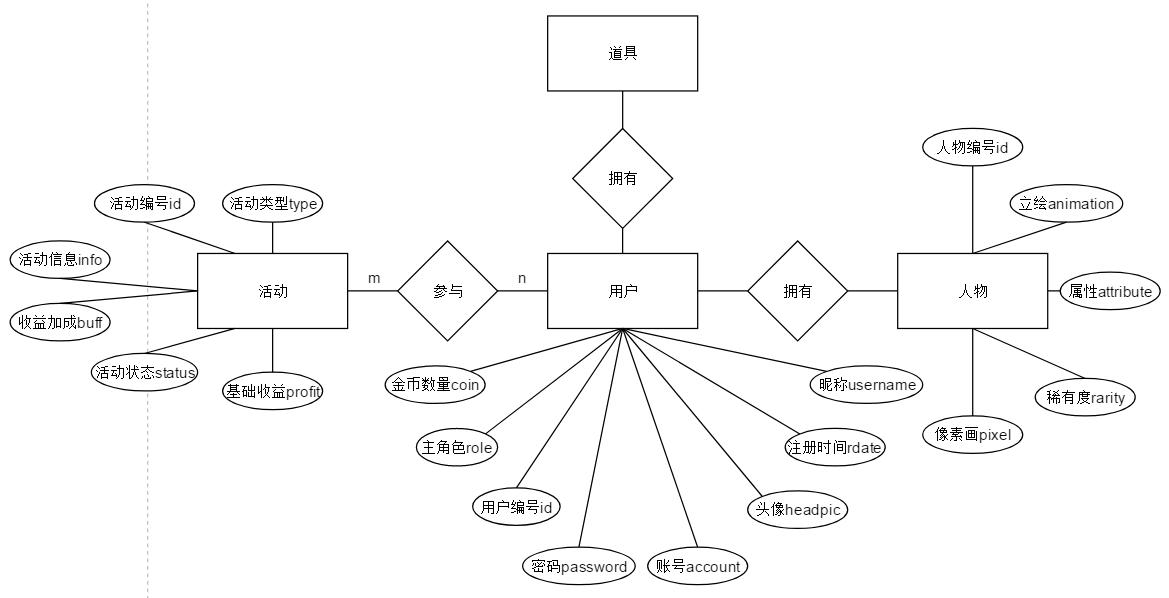
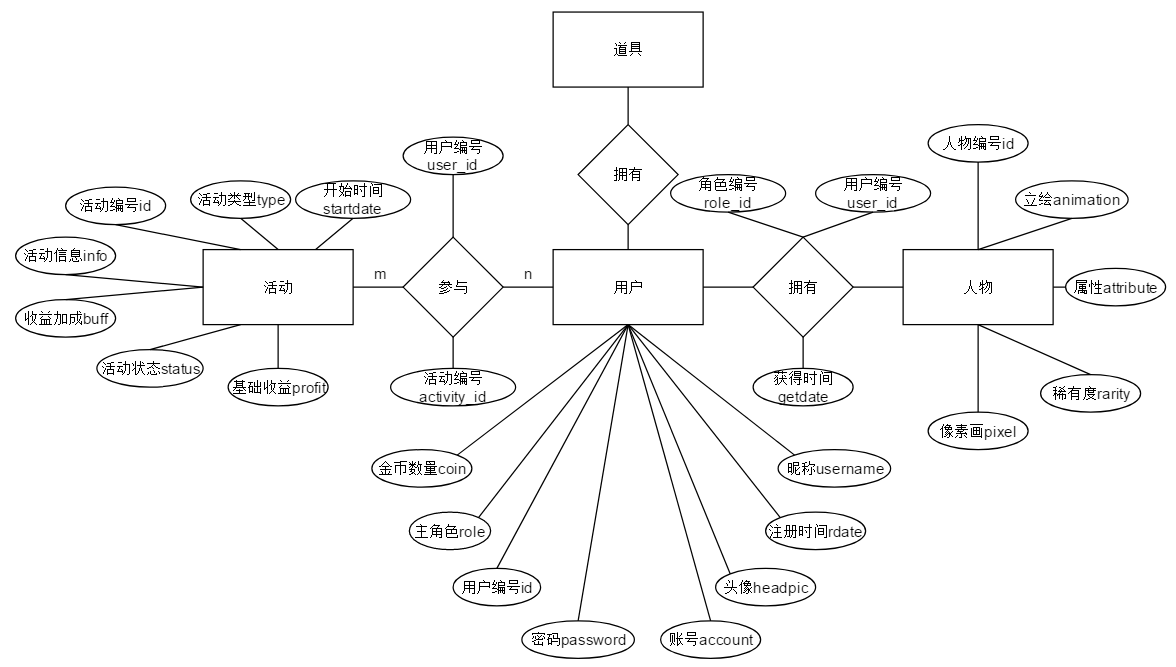
数据库结构修改

diff --git a/Server/api.py b/Server/api.py
@@ -24,35 +24,34 @@ class User(Base):
         self.coin = coin
         self.role = role
 
-        
 class Role(Base):
     __table__ = Table('role',metadata,autoload = True)
 
 class Activity(Base):
     __table__ = Table('activity',metadata,autoload = True)
 
-    def __init__(self,_type,info,status,profit,buff):
+    def __init__(self,_type,info,status,profit,buff,startdate):
         self.type = _type
         self.info = info
         self.status = status
         self.profit = profit
         self.buff = buff
+        self.startdate = startdate
 
 class Act_User(Base):
     __table__ = Table('activity_user',metadata,autoload = True)
 
-    def __init__(self,user_id,activity_id,start_time):
+    def __init__(self,user_id,activity_id):
         self.user_id = user_id
         self.activity_id = activity_id
-        self.start_time = start_time
 
 class User_Role(Base):
     __table__ = Table('user_role',metadata,autoload = True)
 
-    def __init__(self,user_id,role_id,get_time):
+    def __init__(self,user_id,role_id,getdate):
         self.user_id = user_id
         self.role_id = role_id
-        self.get_time = get_time
+        self.getdate = getdate
     
 #账号存在性检验
 def ifAcntExist(userAcnt):
@@ -150,15 +149,16 @@ def changeNickname(userAcnt,newName):
         return 0
 
 #创建活动 未测试
-def crtAct(userAcnts,actType,actInfo,startT):
+def crtAct(userAcnts,actType,actInfo):
     _type = actType
     info = actInfo
     status = 0
     profit = calprofit(actType,actInfo)
     buff = 1
     aid = -1
+    startT = datetime.datetime.now()
     #创建Activity表项
-    newact = Activity(_type,info,status,profit,buff)
+    newact = Activity(_type,info,status,profit,buff,startT)
     session.begin()
     session.add(newact)
     session.commit()
@@ -181,8 +181,7 @@ def calprofit(actType,actInfo):
 def crtU_A(uid,aid,startT):
     user_id = uid
     activity_id = aid
-    start_time = startT
-    newUA = Act_User(user_id,activity_id,start_time)
+    newUA = Act_User(user_id,activity_id)
     session.begin()
     session.add(newUA)
     session.commit()
@@ -197,8 +196,8 @@ def acnt_to_id(acnt):
 
 #获得角色 未测试
 def getRole(uid,rid):
-    getT = datetime.date.now()
-    newrole = User_Role(uid,rid,getT)
+    getdate = datetime.date.now()
+    newrole = User_Role(uid,rid,getdate)
     session.begin()
     session.add(newrole)
     if session.commit() == None:
@@ -207,7 +206,8 @@ def getRole(uid,rid):
         return False
 
 #查询用户角色 未测试
-def usersRole(uid):
+def usersRole(userAcnt):
+    uid = acnt_to_id(userAcnt)
     res = session.query(User_Role.role_id).filter(User_Role.user_id == uid).all()
     return res    
 
@@ -253,3 +253,15 @@ def getUserInfo(userAcnt):
 def getActStatu(aid):
     e = session.query(Activity).filter(Activity.id == aid).first()
     return e.status
+
+
+#用户历史活动查询 未测试
+def getActHistory(userAcnt):
+    uid = acnt_to_id(userAcnt)
+    aidlist = session.query(Act_User.activity_id).filter(Act_User.user_id ==uid).all()
+    actList = []
+    for i in aidlist:
+        act = session.query(Activity).filter(Activity.id == i).first()
+        if act.status!= 0 :
+            actList.append({'startT':act.startdate,'actInfo':act.actInfo,'profit':act.profit*act.buff})
+    return actList
